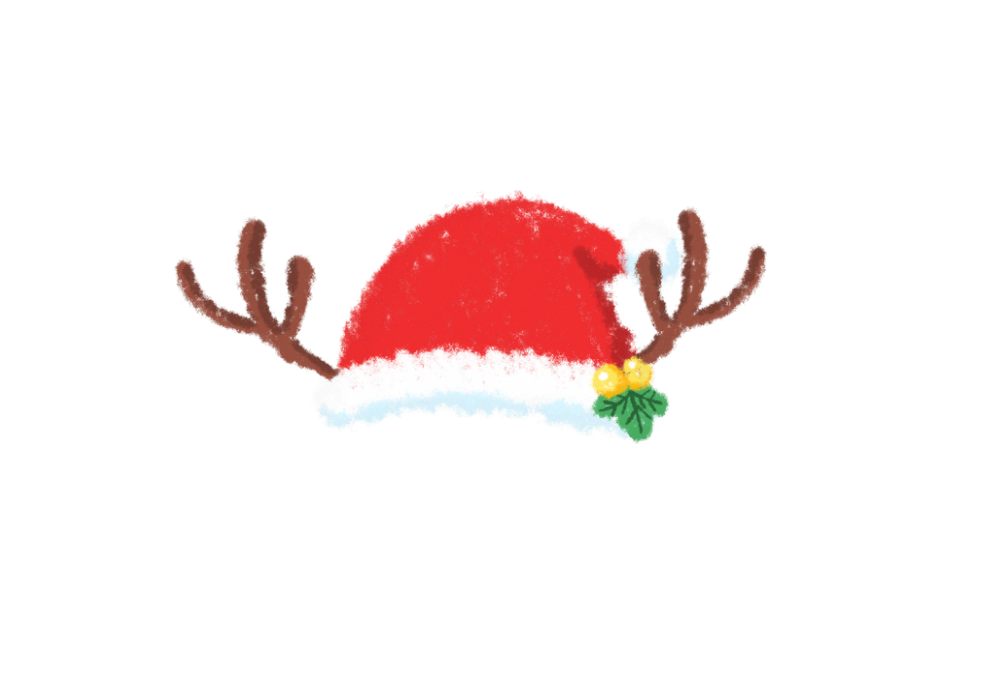
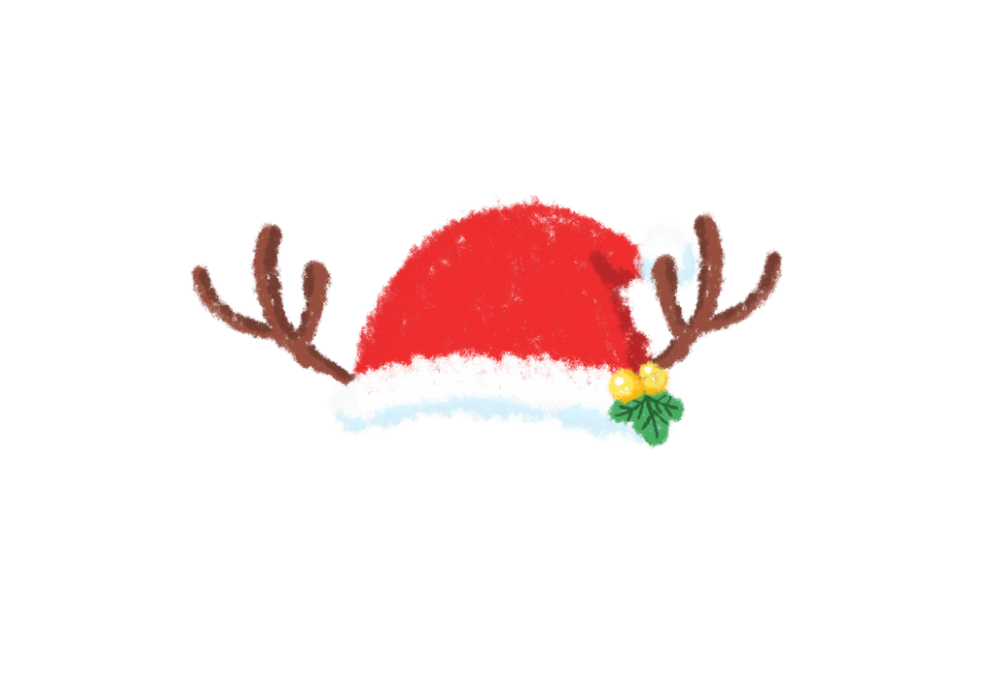
parameter adjustment

Changed region(s): [[0.155, 0.27, 0.806, 0.66]]

diff --git a/src/strategy.py b/src/strategy.py
@@ -105,10 +105,10 @@ def send_emoji_chat_with_query(msg, isGroupChat=False):
         image_url = webcrawl.get_image_url_with_query(query)
     _chat_log(msg, isGroupChat)
     if image_url is None:
-        log.debug("未找到匹配图片")
+        log.debug("未找到匹配图片".decode("utf8"))
         image_path = no_image_result_path
     elif image_url == "trigger_blackword":
-        log.notice("触发黑名单词：" + query)
+        log.info(("触发黑名单词：" + query).decode("utf8"))
         image_path = warning_image_path
     else:
         image_path = download.download_image(image_url)
@@ -122,16 +122,17 @@ def add_blackword(msg, isGroupChat=False):
         blackword_list.append(query)
 
 def christmas_hat(msg, isGroupChat=False):
+    _chat_log(msg, isGroupChat)
     hat_img_path_list = [
-        #"../static/hat/hat0.png",
-        #"../static/hat/hat1.png",
-        "../static/hat/hat2.png"
+        "../static/hat/hat.png"
     ]
     username = msg.get("FromUserName", "")
     if username == "":
+        log.info("[fail] get user info fail!")
         msg.user.send(u"机器人小源提示: 无法获取您的用户信息!")
     head_img = itchat.get_head_img(username)
     if head_img is None:
+        log.info("[fail] get head face fail!")
         msg.user.send(u"机器人小源提示: 获取您的头像图片失败!")
     head_img_path = "../image/" + str(int(time.time())) + ".jpg"
     with open(head_img_path, "wb") as f:
@@ -139,8 +140,10 @@ def christmas_hat(msg, isGroupChat=False):
     hat_img_path = random.choice(hat_img_path_list)
     head_with_hat_img_path = hat.add_hat(head_img_path, hat_img_path)
     if head_with_hat_img_path is None:
+        log.info("[fail] no people face in head image!")
         msg.user.send(u"机器人小源提示: 您的头像中未能识别出人脸，可能是小源还不支持识别动漫人脸哦~")
     else:
+        log.info("[success] merge hat and head image to " + head_with_hat_img_path)
         msg.user.send_image(head_with_hat_img_path)
 
 #所有用户私聊和群消息均可触发

diff --git a/src/hat.py b/src/hat.py
@@ -72,7 +72,7 @@ def add_hat_to_face(head_img, hat_img, predictor, dets):
 
         # 求解帽子相对人脸的垂直偏移
         # 系数k2表示帽子到双眼所在水平线的距离为双眼所在水平线到门中的距离的k倍
-        k2 = 1.6
+        k2 = 1.3
 
         #门中到双眼线的距离, 这里简化为求门中到双眼中点的距离
         mid_eye = ((mid1[0] + mid2[0]) / 2, (mid1[1] + mid2[1]) / 2)
@@ -85,8 +85,6 @@ def add_hat_to_face(head_img, hat_img, predictor, dets):
         img_top = int(img_bottom - resized_hat.shape[0])
         img_left = int(k2 * distance * math.cos(angle_offset) + mid_eye[0] - 0.5 * resized_hat.shape[1])
         img_right = int(img_left + resized_hat.shape[1])
-        print img_left, img_right
-        print img_top, img_bottom
         #裁剪图片
         if img_left < 0:
             delta_left = 0 - img_left
@@ -118,8 +116,6 @@ def add_hat_to_face(head_img, hat_img, predictor, dets):
 
         ## 相乘之前保证两者大小一致（可能会由于四舍五入原因不一致）
         alpha = cv2.resize(alpha, (bg_roi.shape[1],bg_roi.shape[0]))
-        print alpha.shape
-        print bg_roi.shape
         bg = cv2.multiply(alpha, bg_roi)
         bg = bg.astype('uint8')
         ## cv2.imwrite("bg.jpg",bg)
